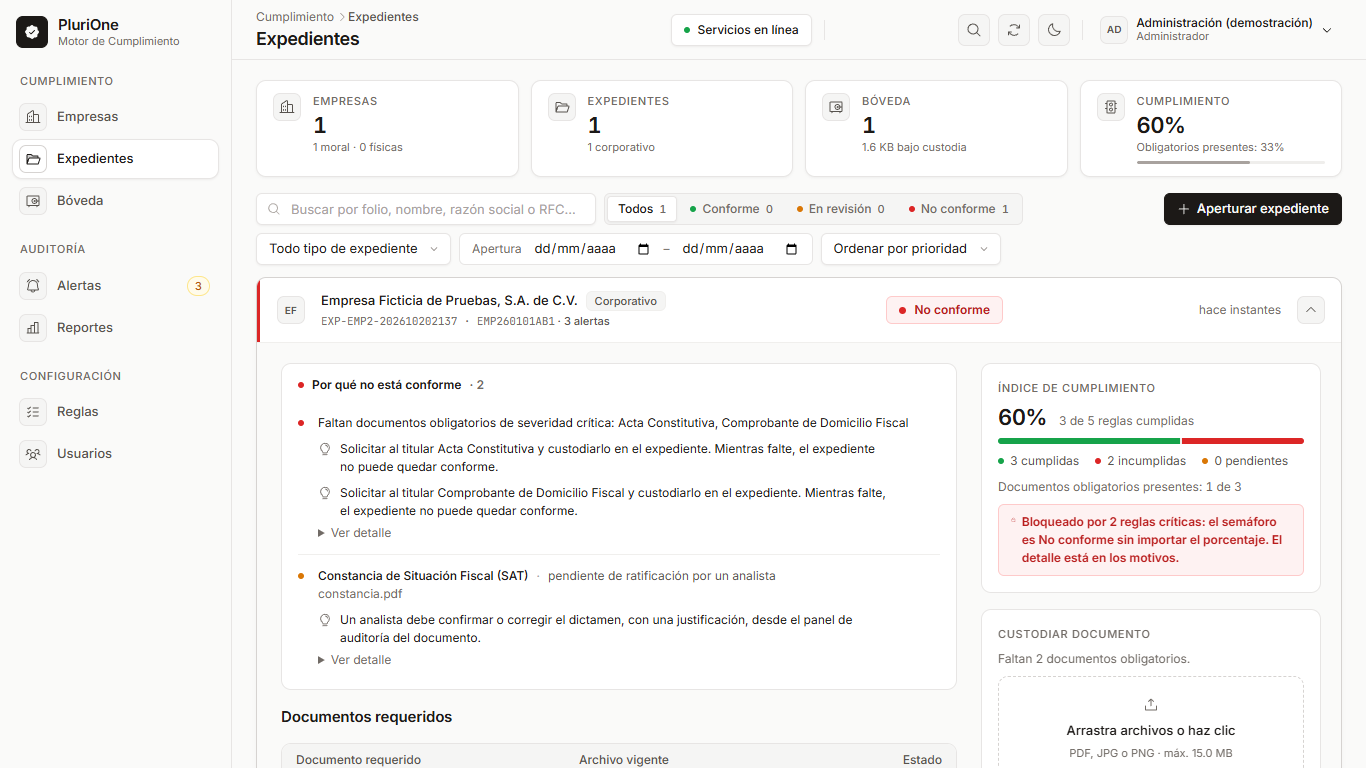
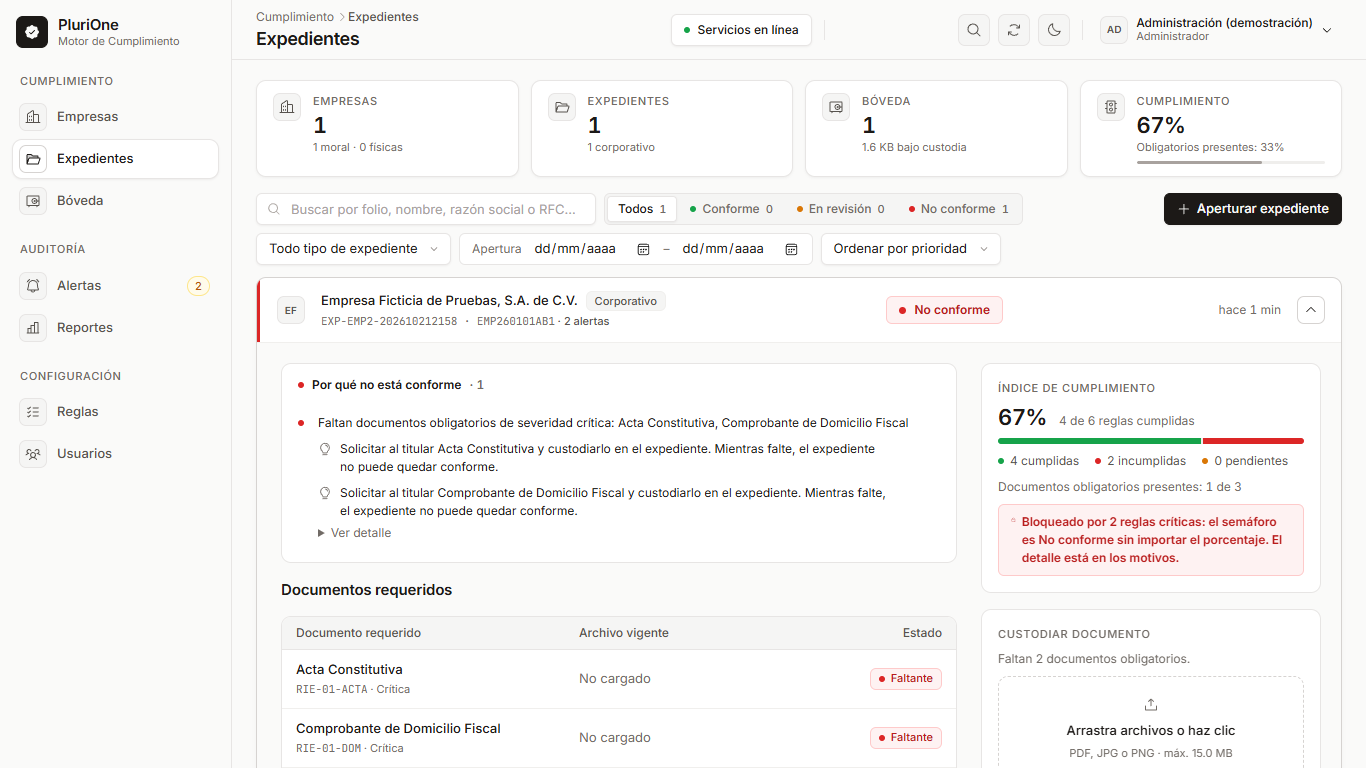
docs(validacion): evidencia de la prueba de entrega en Docker (0709293)
Corrida de prueba_entrega_docker.py --con-ia desde un clon limpio del
commit con el candado de secretos (corte del 21/10/2026): 20 de 20
comprobaciones. La auditoría con IA salió CONFORME (EN_REVISION en
e394be0; el modelo no es determinista y la prueba comprueba que se
guarde, no el veredicto).

boveda_y_salud.txt agrega el candado visto en el contenedor construido:
con USUARIOS_DEMO=false rechaza el JWT_SECRET y la BOVEDA_LLAVE de
demostración; con USUARIOS_DEMO=true pasa. Capturas nuevas de las nueve
pantallas sobre los datos de la corrida. Reemplaza la evidencia de e394be0.

diff --git a/docs/resultados_validacion/entrega_docker/README.md b/docs/resultados_validacion/entrega_docker/README.md
@@ -1,25 +1,27 @@
-# Prueba de entrega en Docker — 20/10/2026, commit `e394be0`
+# Prueba de entrega en Docker — 21/10/2026, commit `0709293`
 
-Evidencia de la instalación tal como la recibe PluriOne (RNF-11): un clon limpio del commit publicado en `main`, levantado con `docker compose up --build` en un proyecto propio (`plurione_entrega`, con su base y sus volúmenes nuevos) y recorrido con datos ficticios.
+Evidencia de la instalación tal como la recibe PluriOne (RNF-11): un clon limpio del último commit de `main`, levantado con `docker compose up --build` en un proyecto propio (`plurione_entrega`, con su base y sus volúmenes nuevos) y recorrido con datos ficticios.
 
 | Campo | Valor |
 |---|---|
-| Fecha | 20 de octubre de 2026, 15:36 a 15:37 (UTC−6) |
-| Commit | `e394be0` (`origin/main`) |
+| Fecha | 21 de octubre de 2026, 15:58 (UTC−6) |
+| Commit | `0709293` (`main`; incluye el candado de secretos del corte del 21/10/2026) |
 | Comando | `python scripts/prueba_entrega_docker.py --con-ia --conservar` |
 | Entorno | Windows 11, Docker Engine 29.9.1, Docker Compose 5.6.0 |
-| Resultado | **20 de 20 comprobaciones**, código de salida 0; `docker compose up --build` en 37 s |
+| Resultado | **20 de 20 comprobaciones**, código de salida 0; `docker compose up --build` en 35 s (161 s en la corrida anterior del mismo día, sin capas en caché) |
 
 `--con-ia` hace una auditoría y una pregunta reales al proveedor de IA (Groq) con la clave del equipo de desarrollo, que solo se escribió en el `.env` del clon temporal. `--conservar` dejó los contenedores en marcha para tomar las capturas y revisar la bóveda; después se bajaron con sus volúmenes y se borró el clon. Sin `--con-ia`, la misma prueba comprueba que la auditoría responde 503 con la instrucción para configurar la clave.
 
-**Resultado de la auditoría con IA: EN_REVISION.** La constancia de la prueba es un PDF sintético que declara no tener validez fiscal y no trae régimen, domicilio ni cadena original. En esta corrida el modelo la clasificó como otro tipo de documento y el motor la envió a ratificación humana (confianza 0.95, huella RIE-03 verificada): ante una discrepancia de tipo, el motor no aprueba solo. En las dos corridas del mismo día sobre `8fadc84` y `e4a42bf`, el mismo PDF salió CONFORME; el modelo, aun a temperatura 0, no es determinista entre corridas, y la prueba comprueba que la auditoría se guarde, no su veredicto. Por eso el expediente queda con 3 alertas (los dos obligatorios críticos faltantes y la ratificación pendiente).
+**Resultado de la auditoría con IA: CONFORME.** La constancia de la prueba es un PDF sintético que declara no tener validez fiscal. El modelo, aun a temperatura 0, no es determinista entre corridas: el mismo PDF salió CONFORME sobre `8fadc84`, `e4a42bf` y `0709293`, y EN_REVISION (enviado a ratificación humana por una discrepancia de tipo) sobre `e394be0` y en una primera corrida de este mismo cambio el 21/10, antes de corregir la redacción del mensaje del candado. Por eso la prueba comprueba que la auditoría se guarde, no su veredicto. El expediente queda NO_CONFORME con 2 alertas: los dos documentos obligatorios críticos que faltan (índice de cumplimiento del 67 %, bloqueado por dos reglas críticas).
+
+**Candado de secretos (corte del 21/10/2026).** Con `USUARIOS_DEMO=false`, el core no arranca con el `JWT_SECRET` ni con la `BOVEDA_LLAVE` de demostración del compose, que son públicos. `boveda_y_salud.txt` lo muestra en el contenedor construido: la misma comprobación de arranque rechaza los dos valores fuera del modo demostración y pasa con `USUARIOS_DEMO=true`, que es como levanta la entrega.
 
 ## Archivos
 
 | Archivo | Qué muestra |
 |---|---|
-| [`salida_2026-10-20_e394be0.txt`](salida_2026-10-20_e394be0.txt) | Salida completa de la prueba: salud de los servicios, 401 sin sesión, inicio de sesión de las cuatro cuentas de demostración, permisos de la cuenta de consulta, catálogo de reglas, empresa con RFC ficticio, carga, auditoría con IA (guardada; EN_REVISION), chat, semáforo de un expediente incompleto (NO_CONFORME), cadena de la bitácora íntegra y reportes PDF y Excel con la ficha de custodia. |
-| [`boveda_y_salud.txt`](boveda_y_salud.txt) | Contenedores y versiones; el documento custodiado dentro del contenedor del core, cifrado (cabecera `PLVC1`, sin el `%PDF` del original; RNF-04); `GET /health` del core con sus dos advertencias de demostración (secreto de sesión y llave de la bóveda), y el frontend respondiendo. |
+| [`salida_2026-10-21_0709293.txt`](salida_2026-10-21_0709293.txt) | Salida completa de la prueba: salud de los servicios, 401 sin sesión, inicio de sesión de las cuatro cuentas de demostración, permisos de la cuenta de consulta, catálogo de reglas, empresa con RFC ficticio, carga, auditoría con IA (guardada; CONFORME), chat, semáforo de un expediente incompleto (NO_CONFORME), cadena de la bitácora íntegra y reportes PDF y Excel con la ficha de custodia. |
+| [`boveda_y_salud.txt`](boveda_y_salud.txt) | Contenedores y versiones; el documento custodiado dentro del contenedor del core, cifrado (cabecera `PLVC1`, sin el `%PDF` del original; RNF-04); `GET /health` del core con sus dos advertencias de demostración (secreto de sesión y llave de la bóveda), el candado de secretos fuera del modo demostración y el frontend respondiendo. |
 | [`capturas/`](capturas/) | Pantallas principales a 1366 × 768 con la cuenta de administración, sobre los datos que dejó la corrida. |
 
 ## Capturas
@@ -28,9 +30,9 @@ Evidencia de la instalación tal como la recibe PluriOne (RNF-11): un clon limpi
 |---|---|
 | [`00_acceso.png`](capturas/00_acceso.png) | Inicio de sesión, una pregunta a la vez, con el indicador de servicios en línea |
 | [`01_expedientes.png`](capturas/01_expedientes.png) | Expedientes con sus métricas (1.6 KB bajo custodia): el expediente de la corrida, No conforme |
-| [`02_expediente_detalle.png`](capturas/02_expediente_detalle.png) | El expediente desplegado: motivos (dos obligatorios críticos faltantes y la constancia pendiente de ratificación), índice de cumplimiento (60 %, bloqueado por dos reglas críticas) y documentos requeridos |
+| [`02_expediente_detalle.png`](capturas/02_expediente_detalle.png) | El expediente desplegado: motivos (dos obligatorios críticos faltantes), índice de cumplimiento (67 %, bloqueado por dos reglas críticas) y documentos requeridos |
 | [`03_empresas.png`](capturas/03_empresas.png) | Empresas |
-| [`04_boveda.png`](capturas/04_boveda.png) | Bóveda: la constancia custodiada, En revisión, con su huella SHA-256 |
+| [`04_boveda.png`](capturas/04_boveda.png) | Bóveda: la constancia custodiada, Conforme, con su huella SHA-256 |
 | [`05_alertas.png`](capturas/05_alertas.png) | Alertas del expediente, de la más grave a la menos grave, con su recomendación |
 | [`06_reportes.png`](capturas/06_reportes.png) | Reportes con sus gráficas |
 | [`07_reglas.png`](capturas/07_reglas.png) | Catálogo de reglas del DOC-05 |

diff --git a/README.md b/README.md
@@ -36,7 +36,7 @@ cp .env.example .env      # y llena GROQ_API_KEY (https://console.groq.com/keys)
 docker compose up -d --build
 ```
 
-La interfaz queda en http://localhost:5173 (ver «Acceso y roles» para entrar). La base se crea sola al arrancar, con el catálogo de reglas y las cuentas de demostración. Sin la clave, el sistema funciona completo salvo la auditoría y el chat con IA, que responden con la instrucción para configurarla. `python scripts/prueba_entrega_docker.py [--con-ia]` comprueba la instalación desde un clon limpio del último commit. La corrida de la entrega (20/10/2026, commit `e394be0`), con su salida y capturas de las pantallas principales, está en [`docs/resultados_validacion/entrega_docker/`](docs/resultados_validacion/entrega_docker/).
+La interfaz queda en http://localhost:5173 (ver «Acceso y roles» para entrar). La base se crea sola al arrancar, con el catálogo de reglas y las cuentas de demostración. Sin la clave, el sistema funciona completo salvo la auditoría y el chat con IA, que responden con la instrucción para configurarla. `python scripts/prueba_entrega_docker.py [--con-ia]` comprueba la instalación desde un clon limpio del último commit. La corrida de la entrega (21/10/2026, commit `0709293`), con su salida y capturas de las pantallas principales, está en [`docs/resultados_validacion/entrega_docker/`](docs/resultados_validacion/entrega_docker/).
 
 El rules-service carga el catálogo de reglas al arrancar (`AUTO_SEED=true`). La precarga es idempotente: solo inserta las reglas que faltan y no toca las editadas.
 
